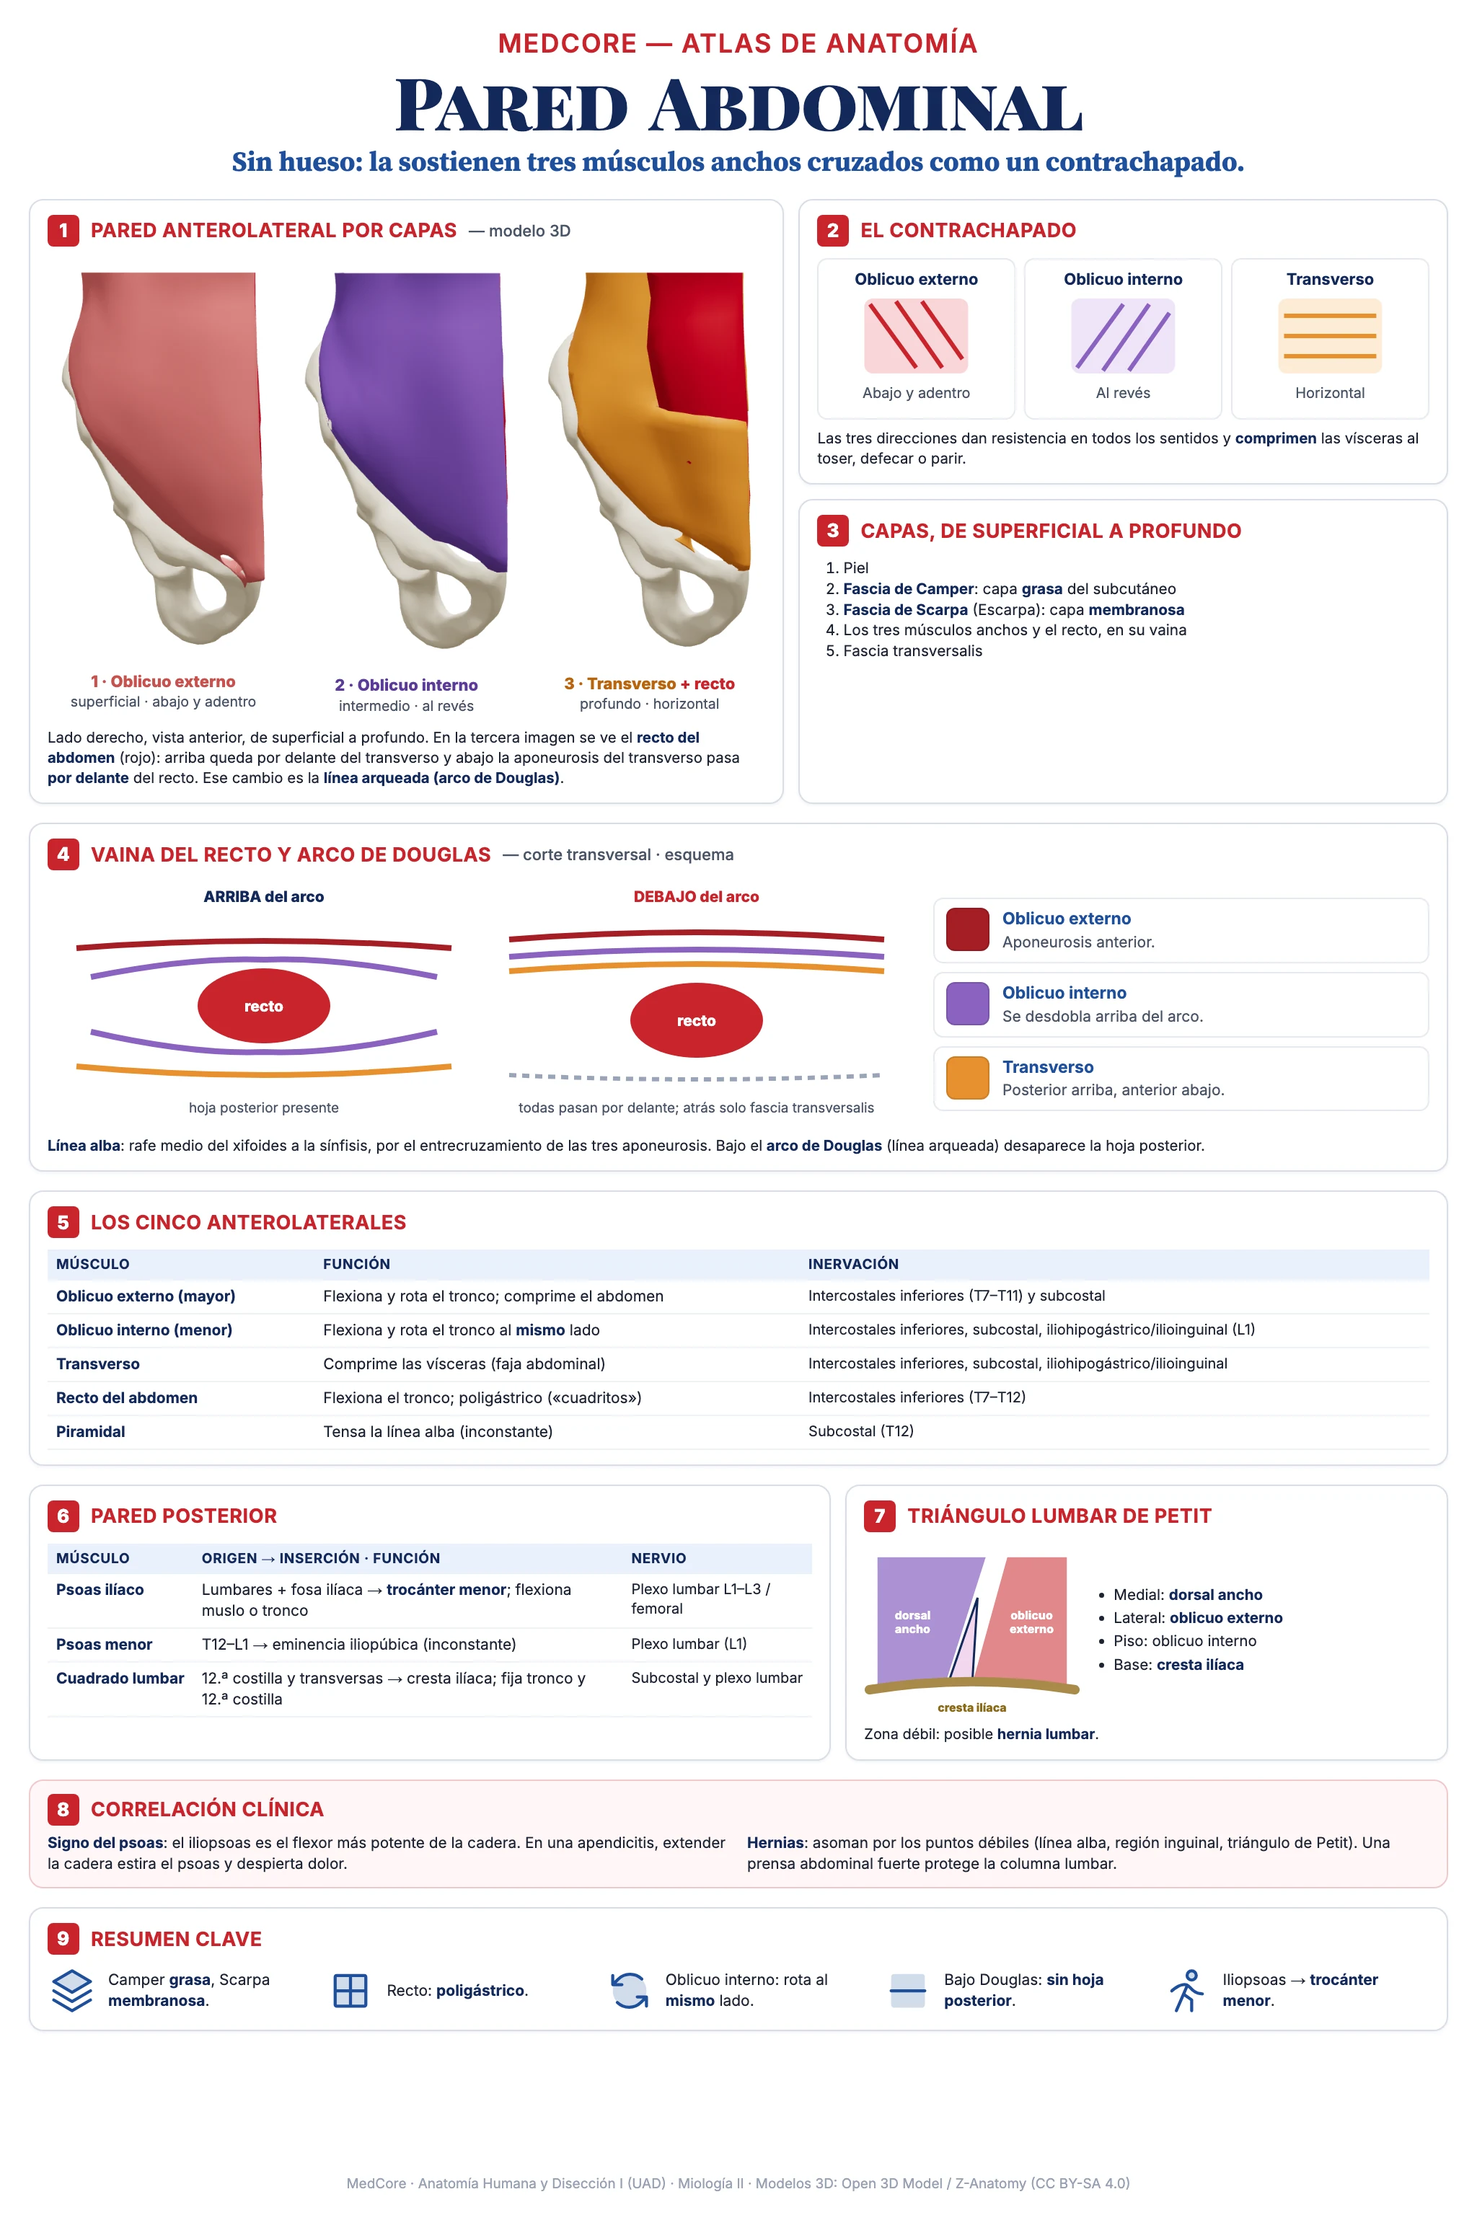
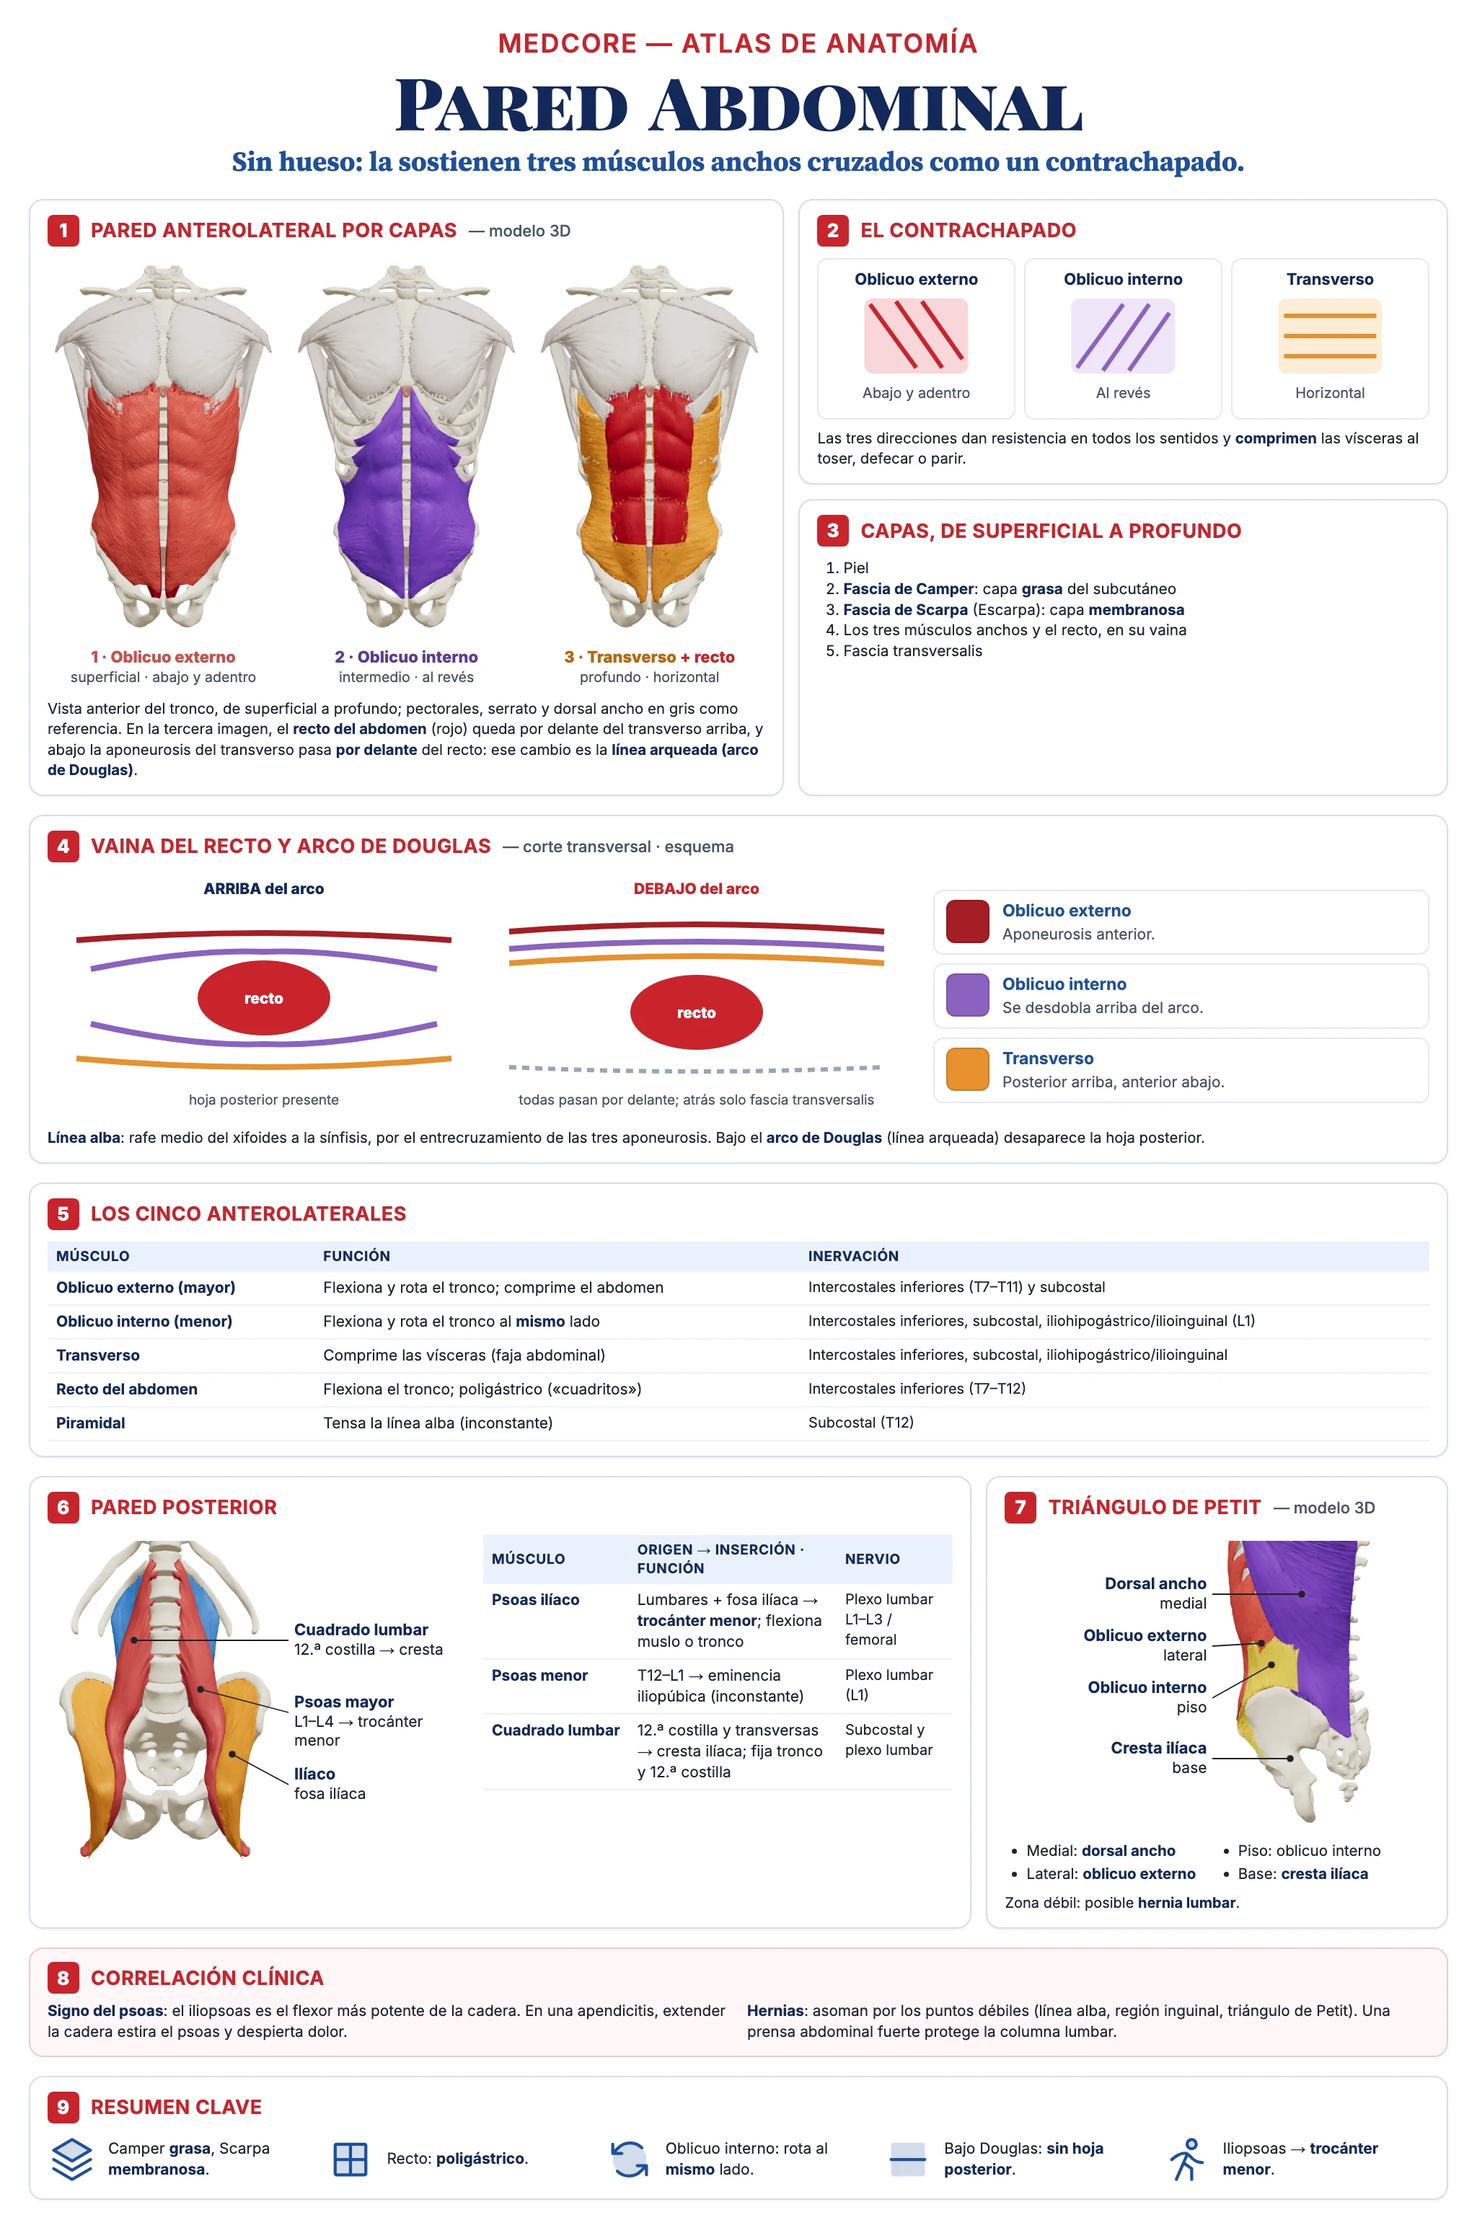
feat(atlas): pared abdominal y diafragma con renders de Z-Anatomy
Pared abdominal: las tres capas sobre el tronco completo, pared posterior
(psoas, ilíaco, cuadrado lumbar) y triángulo de Petit en vista posterolateral.
Dorso y diafragma: diafragma con la cava inferior, el esófago y la aorta
atravesándolo, e intercostales externos e internos. render-atlas.html:
opción front/frontoff para decidir qué malla coplanar queda delante.

diff --git a/docs/atlas-posters/membrana/src/anat-musculos-abdomen.html b/docs/atlas-posters/membrana/src/anat-musculos-abdomen.html
@@ -21,11 +21,11 @@ td.v { font-size: 10px; }
   <section class="panel" style="flex:1.05">
     <div class="ph"><span class="n">1</span>Pared anterolateral por capas <small>— modelo 3D</small></div>
     <div style="display:grid;grid-template-columns:repeat(3,1fr);gap:8px;margin-top:4px">
-      <div style="text-align:center"><img src="{{img:ana3d/abd-c.png}}" style="width:100%;max-height:300px;object-fit:contain"><p style="font-size:11px;font-weight:800;color:#c8524f;margin:4px 0 0">1 · Oblicuo externo</p><p style="font-size:9.8px;color:var(--muted);margin:0">superficial · abajo y adentro</p></div>
-      <div style="text-align:center"><img src="{{img:ana3d/abd-b.png}}" style="width:100%;max-height:300px;object-fit:contain"><p style="font-size:11px;font-weight:800;color:#5b3b99;margin:4px 0 0">2 · Oblicuo interno</p><p style="font-size:9.8px;color:var(--muted);margin:0">intermedio · al revés</p></div>
-      <div style="text-align:center"><img src="{{img:ana3d/abd-a.png}}" style="width:100%;max-height:300px;object-fit:contain"><p style="font-size:11px;font-weight:800;color:#b8650f;margin:4px 0 0">3 · Transverso <span style="color:#c8242c">+ recto</span></p><p style="font-size:9.8px;color:var(--muted);margin:0">profundo · horizontal</p></div>
+      <div style="text-align:center"><img src="{{img:ana3d/abd-capa1.png}}" style="width:100%;max-height:290px;object-fit:contain"><p style="font-size:11px;font-weight:800;color:#c8524f;margin:4px 0 0">1 · Oblicuo externo</p><p style="font-size:9.8px;color:var(--muted);margin:0">superficial · abajo y adentro</p></div>
+      <div style="text-align:center"><img src="{{img:ana3d/abd-capa2.png}}" style="width:100%;max-height:290px;object-fit:contain"><p style="font-size:11px;font-weight:800;color:#5b3b99;margin:4px 0 0">2 · Oblicuo interno</p><p style="font-size:9.8px;color:var(--muted);margin:0">intermedio · al revés</p></div>
+      <div style="text-align:center"><img src="{{img:ana3d/abd-capa3.png}}" style="width:100%;max-height:290px;object-fit:contain"><p style="font-size:11px;font-weight:800;color:#b8650f;margin:4px 0 0">3 · Transverso <span style="color:#c8242c">+ recto</span></p><p style="font-size:9.8px;color:var(--muted);margin:0">profundo · horizontal</p></div>
     </div>
-    <p style="font-size:10.2px;margin:8px 0 0">Lado derecho, vista anterior, de superficial a profundo. En la tercera imagen se ve el <b>recto del abdomen</b> (rojo): arriba queda por delante del transverso y abajo la aponeurosis del transverso pasa <b>por delante</b> del recto. Ese cambio es la <b>línea arqueada (arco de Douglas)</b>.</p>
+    <p style="font-size:10.2px;margin:8px 0 0">Vista anterior del tronco, de superficial a profundo; pectorales, serrato y dorsal ancho en gris como referencia. En la tercera imagen, el <b>recto del abdomen</b> (rojo) queda por delante del transverso arriba, y abajo la aponeurosis del transverso pasa <b>por delante</b> del recto: ese cambio es la <b>línea arqueada (arco de Douglas)</b>.</p>
   </section>
   <section class="col" style="flex:.95">
     <section class="panel">
@@ -95,26 +95,20 @@ td.v { font-size: 10px; }
 </section>
 
 <div class="row">
-  <section class="panel" style="flex:1.15">
+  <section class="panel" style="flex:1.6">
     <div class="ph"><span class="n">6</span>Pared posterior</div>
-    <table>
+    <div style="display:flex;gap:12px;align-items:flex-start"><div style="flex:0 0 290px"><script type="auto3d">{"img": "ana3d/abd-post.png", "height": 225, "cw": 290, "L": 4, "gap": 50, "labels": {"ps": ["Psoas mayor", "L1–L4 → trocánter menor"], "ql": ["Cuadrado lumbar", "12.ª costilla → cresta"], "il": ["Ilíaco", "fosa ilíaca"]}, "side": {"ps": "right", "ql": "right", "il": "right", "r12": "right"}}</script></div><div style="flex:1;min-width:0"><table>
       <tr><th>Músculo</th><th>Origen → inserción · función</th><th>Nervio</th></tr>
       <tr><td class="k">Psoas ilíaco</td><td>Lumbares + fosa ilíaca → <b>trocánter menor</b>; flexiona muslo o tronco</td><td class="v">Plexo lumbar L1–L3 / femoral</td></tr>
       <tr><td class="k">Psoas menor</td><td>T12–L1 → eminencia iliopúbica (inconstante)</td><td class="v">Plexo lumbar (L1)</td></tr>
       <tr><td class="k">Cuadrado lumbar</td><td>12.ª costilla y transversas → cresta ilíaca; fija tronco y 12.ª costilla</td><td class="v">Subcostal y plexo lumbar</td></tr>
-    </table>
+    </table></div></div>
   </section>
-  <section class="panel" style="flex:.85">
-    <div class="ph"><span class="n">7</span>Triángulo lumbar de Petit</div>
-    <div style="display:flex;gap:8px;align-items:center">
-      <svg viewBox="0 0 160 130" style="width:150px;flex-shrink:0">
-        <path d="M10 10 L90 10 L60 104 L10 104 Z" fill="#8a63c0" opacity=".7"/>
-        <path d="M150 10 L106 10 L80 104 L150 104 Z" fill="#c8242c" opacity=".55"/>
-        <path d="M62 104 L84 40 L80 104 Z" fill="#f2d7ef" stroke="#13295b" stroke-width="1.6"/>
-        <path d="M4 108 Q80 96 156 108" fill="none" stroke="#a88a4a" stroke-width="7" stroke-linecap="round"/>
-        <g font-family="Inter" font-size="8.5" font-weight="800" text-anchor="middle"><text x="36" y="56" fill="#fff">dorsal</text><text x="36" y="66" fill="#fff">ancho</text><text x="124" y="56" fill="#fff">oblicuo</text><text x="124" y="66" fill="#fff">externo</text><text x="80" y="124" fill="#8a6a1a">cresta ilíaca</text></g>
-      </svg>
-      <ul class="lst">
+  <section class="panel" style="flex:.75">
+    <div class="ph"><span class="n">7</span>Triángulo de Petit <small>— modelo 3D</small></div>
+    <div style="display:flex;flex-direction:column;gap:4px;align-items:center">
+      <script type="auto3d">{"img": "ana3d/abd-petit.png", "height": 200, "cw": 300, "L": 150, "gap": 36, "labels": {"ld": ["Dorsal ancho", "medial"], "io": ["Oblicuo interno", "piso", [190, 470]], "eo": ["Oblicuo externo", "lateral"], "hb": ["Cresta ilíaca", "base"]}, "side": {"ld": "left", "io": "left", "eo": "left", "hb": "left"}}</script>
+      <ul class="lst" style="columns:2;column-gap:14px;align-self:stretch">
         <li>Medial: <b>dorsal ancho</b></li>
         <li>Lateral: <b>oblicuo externo</b></li>
         <li>Piso: oblicuo interno</li>
@@ -144,5 +138,5 @@ td.v { font-size: 10px; }
   </div>
 </section>
 
-<p class="foot">MedCore · Anatomía Humana y Disección I (UAD) · Miología II · Modelos 3D: Open 3D Model / Z-Anatomy (CC BY-SA 4.0)</p>
+<p class="foot">MedCore · Anatomía Humana y Disección I (UAD) · Miología II · Modelos 3D: Z-Anatomy (CC BY-SA 4.0) · vaina del recto: esquema</p>
 </div></body></html>

diff --git a/docs/atlas-posters/membrana/src/anat-musculos-dorso-diafragma.html b/docs/atlas-posters/membrana/src/anat-musculos-dorso-diafragma.html
@@ -47,29 +47,8 @@ svg text { font-family: 'Inter'; }
 
 <div class="row">
   <section class="panel" style="flex:1.1">
-    <div class="ph"><span class="n">4</span>Diafragma y sus orificios ★ <small>— vista anterior · esquema</small></div>
-    <svg viewBox="0 0 500 300" style="width:100%;display:block">
-      <!-- columna -->
-      <g fill="#f3e6c8" stroke="#a88a4a" stroke-width="1.4">
-        <rect x="226" y="20" width="48" height="24" rx="5"/><rect x="226" y="48" width="48" height="24" rx="5"/><rect x="226" y="76" width="48" height="24" rx="5"/><rect x="226" y="104" width="48" height="24" rx="5"/><rect x="226" y="132" width="48" height="24" rx="5"/><rect x="226" y="160" width="48" height="24" rx="5"/><rect x="226" y="188" width="48" height="24" rx="5"/><rect x="226" y="216" width="48" height="24" rx="5"/><rect x="226" y="244" width="48" height="24" rx="5"/>
-      </g>
-      <g font-size="9" font-weight="800" fill="#8a6a1a" text-anchor="middle"><text x="250" y="36">T6</text><text x="250" y="92">T8</text><text x="250" y="148">T10</text><text x="250" y="204">T12</text><text x="250" y="260">L1</text></g>
-      <!-- cúpula -->
-      <path d="M30 230 Q60 60 180 70 Q250 80 320 70 Q440 60 470 230 Q440 200 420 230 L330 250 Q300 200 276 250 L224 250 Q200 200 170 250 L80 230 Q60 200 30 230 Z" fill="#c8242c" opacity=".55"/>
-      <path d="M150 92 Q250 60 350 92 Q320 120 250 116 Q180 120 150 92 Z" fill="#f3d9a6" stroke="#b8901f" stroke-width="1.6"/>
-      <!-- orificios -->
-      <circle cx="300" cy="88" r="12" fill="#5b8fd6" stroke="#13295b" stroke-width="2"/>
-      <ellipse cx="226" cy="144" rx="14" ry="10" fill="#e8c43c" stroke="#13295b" stroke-width="2"/>
-      <circle cx="250" cy="206" r="13" fill="#c8242c" stroke="#13295b" stroke-width="2"/>
-      <g stroke="#1d2433" stroke-width=".9"><line x1="312" y1="88" x2="380" y2="40"/><line x1="212" y1="144" x2="110" y2="120"/><line x1="264" y1="206" x2="380" y2="200"/></g>
-      <g font-size="11">
-        <text x="384" y="30" font-weight="800" fill="#1f4f9c">T8 · Vena cava</text><text x="384" y="44" fill="#4b5567">en el centro tendinoso</text><text x="384" y="57" fill="#4b5567">+ frénico derecho</text>
-        <text x="10" y="112" font-weight="800" fill="#a0821c">T10 · Esófago</text><text x="10" y="126" fill="#4b5567">+ nervios vagos</text>
-        <text x="384" y="196" font-weight="800" fill="#c8242c">T12 · Aorta</text><text x="384" y="210" fill="#4b5567">+ conducto torácico</text><text x="384" y="223" fill="#4b5567">el más bajo</text>
-        <text x="250" y="292" font-weight="800" fill="#c8242c" text-anchor="middle" font-size="10">pilares (porción lumbar)</text>
-        <text x="372" y="112" font-size="10" font-weight="700" fill="#8a6a1a">centro tendinoso</text>
-      </g>
-    </svg>
+    <div class="ph"><span class="n">4</span>Diafragma y sus orificios ★ <small>— vista anterosuperior · modelo 3D</small></div>
+    <script type="auto3d">{"img": "ana3d/dia-ant.png", "height": 330, "cw": 500, "L": 108, "gap": 44, "labels": {"ct": ["Centro tendinoso", "cúpula", [600, 400]], "pil": ["Pilares", "porción lumbar", [470, 780]], "ivc": ["Vena cava inf.", "T8", [532, 300]], "es": ["Esófago", "T10", [588, 230]], "ao": ["Aorta", "T12", [655, 140]]}, "side": {"ct": "left", "pil": "left", "ivc": "right", "es": "right", "ao": "right"}}</script>
     <p style="font-size:10.2px;margin:0">Mnemotecnia: vena <b>C</b>ava T<b>8</b> · <b>E</b>sófago T<b>10</b> · <b>A</b>orta T<b>12</b> (8-10-12).</p>
   </section>
   <section class="col" style="flex:.9">
@@ -85,13 +64,7 @@ svg text { font-family: 'Inter'; }
     </section>
     <section class="panel grow">
       <div class="ph"><span class="n">6</span>Intercostales</div>
-      <svg viewBox="0 0 300 92" style="width:100%;display:block">
-        <path d="M10 20 Q150 4 290 20" fill="none" stroke="#a88a4a" stroke-width="9" stroke-linecap="round"/>
-        <path d="M10 76 Q150 60 290 76" fill="none" stroke="#a88a4a" stroke-width="9" stroke-linecap="round"/>
-        <g stroke="#c8242c" stroke-width="3"><line x1="40" y1="26" x2="60" y2="68"/><line x1="64" y1="24" x2="84" y2="66"/><line x1="88" y1="22" x2="108" y2="64"/><line x1="112" y1="20" x2="132" y2="62"/></g>
-        <g stroke="#1f4f9c" stroke-width="3"><line x1="200" y1="22" x2="180" y2="64"/><line x1="224" y1="24" x2="204" y2="66"/><line x1="248" y1="26" x2="228" y2="68"/><line x1="272" y1="28" x2="252" y2="70"/></g>
-        <g font-family="Inter" font-size="10" text-anchor="middle" font-weight="800"><text x="86" y="90" fill="#c8242c">Externos: elevan</text><text x="226" y="90" fill="#1f4f9c">Internos: descienden</text></g>
-      </svg>
+      <div style="display:grid;grid-template-columns:1fr 1fr;gap:8px;text-align:center"><div><img src="{{img:ana3d/ic-ext.png}}" style="width:100%;max-height:150px;object-fit:contain"><p style="font-size:11px;font-weight:800;color:#c8342c;margin:2px 0 0">Externos: elevan</p><p style="font-size:9.6px;color:var(--muted);margin:0">terminan en la unión costocondral</p></div><div><img src="{{img:ana3d/ic-int.png}}" style="width:100%;max-height:150px;object-fit:contain"><p style="font-size:11px;font-weight:800;color:#2f5fb0;margin:2px 0 0">Internos: descienden</p><p style="font-size:9.6px;color:var(--muted);margin:0">llegan hasta el esternón</p></div></div>
       <p style="font-size:10px;margin:4px 0 0"><b>Externos</b>: abajo y adelante («manos en los bolsillos») → inspiración. <b>Internos</b>: abajo y atrás → espiración. Nervios intercostales.</p>
     </section>
   </section>
@@ -128,5 +101,5 @@ svg text { font-family: 'Inter'; }
   </div>
 </section>
 
-<p class="foot">MedCore · Anatomía Humana y Disección I (UAD) · Miología I · Dorso: modelo 3D Open 3D Model / Z-Anatomy (CC BY-SA 4.0) · diafragma: esquema</p>
+<p class="foot">MedCore · Anatomía Humana y Disección I (UAD) · Miología I · Modelos 3D: Open 3D Model / Z-Anatomy (CC BY-SA 4.0)</p>
 </div></body></html>

diff --git a/render-atlas.html b/render-atlas.html
@@ -43,6 +43,7 @@ loader.load('/models/' + q.get('model'), (g) => {
     if (ghost && ghost.test(n)) { mat.transparent = true; mat.opacity = 0.28; mat.depthWrite = false }
     if (q.get('dbl') === '1' && !bone) mat.side = THREE.DoubleSide
     if (q.get('poff') && !bone) { mat.polygonOffset = true; mat.polygonOffsetFactor = -q.get('poff'); mat.polygonOffsetUnits = -q.get('poff') }
+    if (q.get('front') && new RegExp(q.get('front'), 'i').test(n)) { mat.polygonOffset = true; const fo = +(q.get('frontoff') || 6); mat.polygonOffsetFactor -= fo; mat.polygonOffsetUnits -= fo }
     o.material = mat
     o.updateWorldMatrix(true, false)
     box.expandByObject(o)

diff --git a/docs/atlas-posters/membrana/za_render.py b/docs/atlas-posters/membrana/za_render.py
@@ -3,7 +3,7 @@
 import sys, json, urllib.parse
 from render3d import render
 name, spec = sys.argv[1], json.loads(sys.argv[2])
-q = {'model': '../docs/atlas-posters/membrana/za/head-neck.glb', 'w': 1400, 'h': 1400}
+q = {'model': '../docs/atlas-posters/membrana/za/' + spec.pop('model', 'head-neck') + '.glb', 'w': 1400, 'h': 1400}
 for k, v in spec.items():
     if k == 'hl': v = ';'.join(f'{r}={c}' for r, c in v.items())
     if k == 'pts': v = ';'.join(f'{k2}~{r}' for k2, r in v.items())
